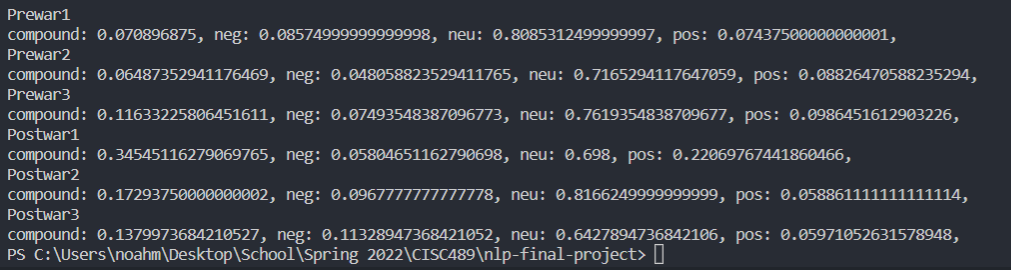
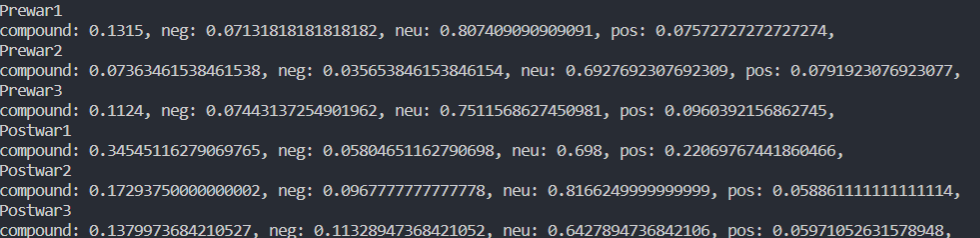
reupload photo

Changed region(s): [[0.0, 0.0294, 0.9796, 1.0]]

diff --git a/analyze.py b/analyze.py
@@ -225,7 +225,7 @@ def main():
 
     for art in threePre:
         for sent in art:
-            if "Zelensky" in sent:
+            if "zelensky" in sent:
                 art.remove(sent)
 
     for art in threePost:
